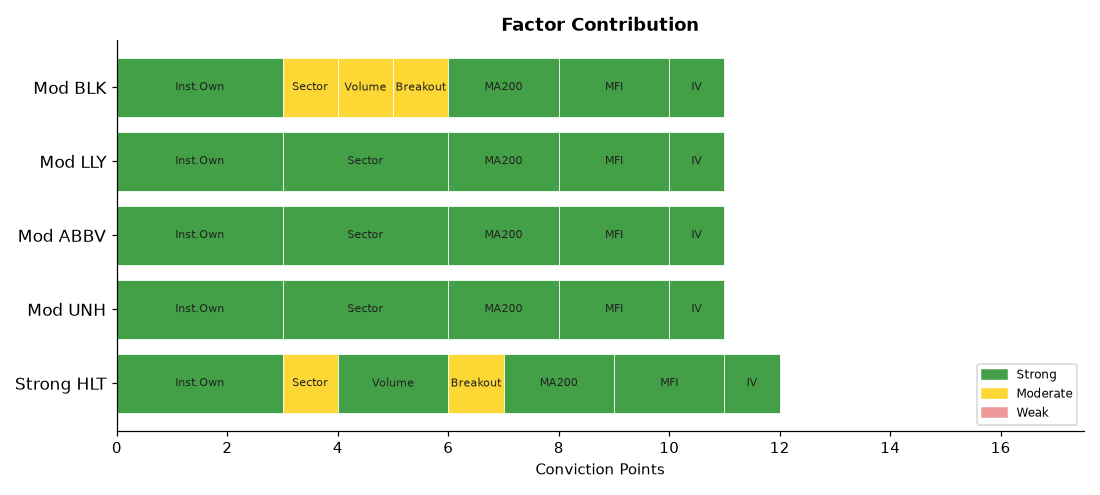
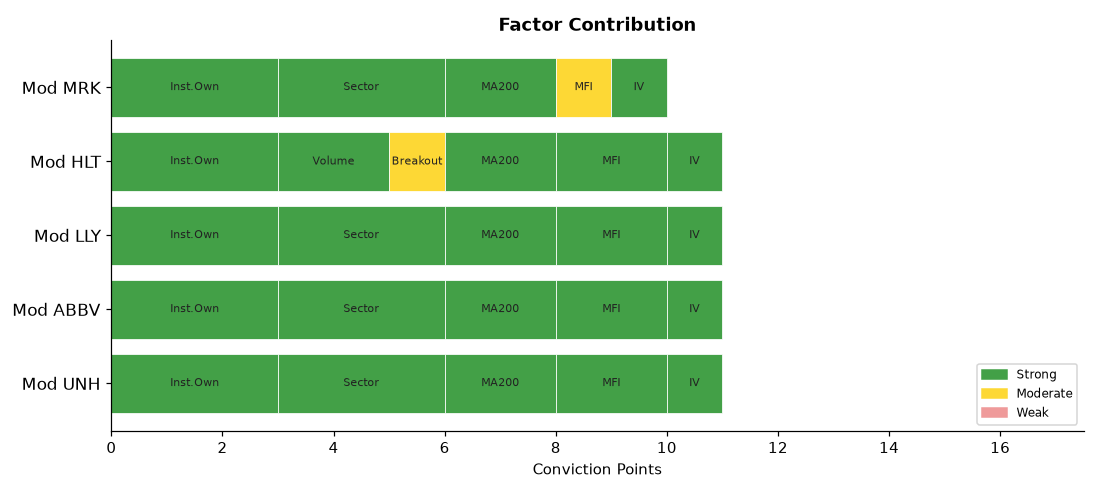
deploy: b7fadf5b06deb90e7ebb92f278722414bdd9750d

diff --git a/index.html b/index.html
@@ -4,7 +4,7 @@
   <meta charset="UTF-8">
   <meta name="viewport" content="width=device-width,initial-scale=1">
   <meta http-equiv="Cache-Control" content="no-cache,no-store,must-revalidate">
-  <title>Stock Breakout Screener — 2026-10-20 20:23</title>
+  <title>Stock Breakout Screener — 2026-10-20 22:00</title>
   <style>
     *{box-sizing:border-box;margin:0;padding:0}
     body{font-family:'Segoe UI',Arial,sans-serif;background:#f0f2f5;
@@ -34,20 +34,20 @@
 
 <div class="hdr">
   <h1>📈 Stock Breakout Screener</h1>
-  <p>Updated: 2026-10-20 20:23 UTC &nbsp;·&nbsp; Phase: After-Hours (4:00–8:00 PM ET) &nbsp;·&nbsp;
+  <p>Updated: 2026-10-20 22:00 UTC &nbsp;·&nbsp; Phase: After-Hours (4:00–8:00 PM ET) &nbsp;·&nbsp;
      129 stocks screened &nbsp;·&nbsp; Top 5 by conviction score</p>
 </div>
 
 <div class="card">
   <strong style="font-size:14px">Market Sentiment: 🐻 Bearish</strong>
   <div class="bar-wrap" style="margin-top:10px">
-    <div style="width:1%;background:#43a047"></div>
-    <div style="width:7%;background:#fdd835"></div>
+    <div style="width:0%;background:#43a047"></div>
+    <div style="width:8%;background:#fdd835"></div>
     <div style="width:92%;background:#e53935"></div>
   </div>
   <div style="font-size:12px;color:#555">
-    🟢 Strong 1% &nbsp;
-    🟡 Moderate 7% &nbsp;
+    🟢 Strong 0% &nbsp;
+    🟡 Moderate 8% &nbsp;
     🔴 Weak 92%
   </div>
 </div>
@@ -59,25 +59,8 @@
                     box-shadow:0 2px 6px rgba(0,0,0,.07)">
           <div style="display:flex;align-items:center;gap:10px;
                       flex-wrap:wrap;margin-bottom:10px">
-            <span style="font-size:22px">🟢</span>
-            <span style="font-size:19px;font-weight:700">1. HLT</span>
-            <span style="font-size:12px;color:#666">Consumer Disc</span>
-            <span style="margin-left:auto;background:#1a237e;color:#fff;
-                         padding:3px 12px;border-radius:12px;
-                         font-size:13px;font-weight:600">
-              12/17
-            </span>
-          </div>
-          <ul style="margin:0;padding-left:18px;font-size:13px;
-                     color:#333;line-height:1.8"><li style="margin:5px 0"><span style="background:#e8f5e9;color:#2e7d32;padding:2px 7px;border-radius:4px;font-size:11px;">✅</span> Volume: <b>2.0× average</b> — 🔥 Strong unusual activity</li><li style="margin:5px 0"><span style="background:#fffde7;color:#f57f17;padding:2px 7px;border-radius:4px;font-size:11px;">⚠</span> Candle: close <b>$359.29</b> vs open <b>$356.00</b> (+0.9%) — regular market close</li><li style="margin:5px 0"><span style="background:#e8f5e9;color:#2e7d32;padding:2px 7px;border-radius:4px;font-size:11px;">✅</span> 200-Day MA: price <b>$359.29</b> vs MA <b>$325.29</b> — <b>✅ Above</b> long-term trend</li><li style="margin:5px 0"><span style="background:#e8f5e9;color:#2e7d32;padding:2px 7px;border-radius:4px;font-size:11px;">✅</span> Inst. ownership: <b>96.8%</b> · MFI: <b>68.3</b> · Market cap: <b>$80.9B</b></li></ul>
-        </div>
-        <div style="background:#fff;border:1px solid #ddd;border-radius:10px;
-                    padding:16px 20px;margin-bottom:12px;
-                    box-shadow:0 2px 6px rgba(0,0,0,.07)">
-          <div style="display:flex;align-items:center;gap:10px;
-                      flex-wrap:wrap;margin-bottom:10px">
             <span style="font-size:22px">🟡</span>
-            <span style="font-size:19px;font-weight:700">2. UNH</span>
+            <span style="font-size:19px;font-weight:700">1. UNH</span>
             <span style="font-size:12px;color:#666">Healthcare</span>
             <span style="margin-left:auto;background:#1a237e;color:#fff;
                          padding:3px 12px;border-radius:12px;
@@ -94,7 +77,7 @@
           <div style="display:flex;align-items:center;gap:10px;
                       flex-wrap:wrap;margin-bottom:10px">
             <span style="font-size:22px">🟡</span>
-            <span style="font-size:19px;font-weight:700">3. ABBV</span>
+            <span style="font-size:19px;font-weight:700">2. ABBV</span>
             <span style="font-size:12px;color:#666">Healthcare</span>
             <span style="margin-left:auto;background:#1a237e;color:#fff;
                          padding:3px 12px;border-radius:12px;
@@ -103,7 +86,7 @@
             </span>
           </div>
           <ul style="margin:0;padding-left:18px;font-size:13px;
-                     color:#333;line-height:1.8"><li style="margin:5px 0"><span style="background:#ffebee;color:#b71c1c;padding:2px 7px;border-radius:4px;font-size:11px;">❌</span> Volume: <b>0.8× average</b> — Above-average activity</li><li style="margin:5px 0"><span style="background:#ffebee;color:#b71c1c;padding:2px 7px;border-radius:4px;font-size:11px;">❌</span> Candle: close <b>$289.08</b> vs open <b>$286.90</b> (+0.8%) — regular market close</li><li style="margin:5px 0"><span style="background:#e8f5e9;color:#2e7d32;padding:2px 7px;border-radius:4px;font-size:11px;">✅</span> 200-Day MA: price <b>$289.08</b> vs MA <b>$241.06</b> — <b>✅ Above</b> long-term trend</li><li style="margin:5px 0"><span style="background:#e8f5e9;color:#2e7d32;padding:2px 7px;border-radius:4px;font-size:11px;">✅</span> Inst. ownership: <b>77.3%</b> · MFI: <b>66.8</b> · Market cap: <b>$510.8B</b></li><li style="margin:5px 0"><span style="background:#ffebee;color:#b71c1c;padding:2px 7px;border-radius:4px;font-size:11px;">❌</span> Last similar breakout: <b>Jun 26, 2026</b> → <b>-2.1%</b> over 10 trading days</li></ul>
+                     color:#333;line-height:1.8"><li style="margin:5px 0"><span style="background:#ffebee;color:#b71c1c;padding:2px 7px;border-radius:4px;font-size:11px;">❌</span> Volume: <b>0.9× average</b> — Above-average activity</li><li style="margin:5px 0"><span style="background:#ffebee;color:#b71c1c;padding:2px 7px;border-radius:4px;font-size:11px;">❌</span> Candle: close <b>$289.08</b> vs open <b>$286.90</b> (+0.8%) — regular market close</li><li style="margin:5px 0"><span style="background:#e8f5e9;color:#2e7d32;padding:2px 7px;border-radius:4px;font-size:11px;">✅</span> 200-Day MA: price <b>$289.08</b> vs MA <b>$241.06</b> — <b>✅ Above</b> long-term trend</li><li style="margin:5px 0"><span style="background:#e8f5e9;color:#2e7d32;padding:2px 7px;border-radius:4px;font-size:11px;">✅</span> Inst. ownership: <b>77.3%</b> · MFI: <b>66.9</b> · Market cap: <b>$510.8B</b></li><li style="margin:5px 0"><span style="background:#ffebee;color:#b71c1c;padding:2px 7px;border-radius:4px;font-size:11px;">❌</span> Last similar breakout: <b>Jun 26, 2026</b> → <b>-2.1%</b> over 10 trading days</li></ul>
         </div>
         <div style="background:#fff;border:1px solid #ddd;border-radius:10px;
                     padding:16px 20px;margin-bottom:12px;
@@ -111,7 +94,7 @@
           <div style="display:flex;align-items:center;gap:10px;
                       flex-wrap:wrap;margin-bottom:10px">
             <span style="font-size:22px">🟡</span>
-            <span style="font-size:19px;font-weight:700">4. LLY</span>
+            <span style="font-size:19px;font-weight:700">3. LLY</span>
             <span style="font-size:12px;color:#666">Healthcare</span>
             <span style="margin-left:auto;background:#1a237e;color:#fff;
                          padding:3px 12px;border-radius:12px;
@@ -120,7 +103,7 @@
             </span>
           </div>
           <ul style="margin:0;padding-left:18px;font-size:13px;
-                     color:#333;line-height:1.8"><li style="margin:5px 0"><span style="background:#ffebee;color:#b71c1c;padding:2px 7px;border-radius:4px;font-size:11px;">❌</span> Volume: <b>1.0× average</b> — Above-average activity</li><li style="margin:5px 0"><span style="background:#ffebee;color:#b71c1c;padding:2px 7px;border-radius:4px;font-size:11px;">❌</span> Candle: close <b>$1283.66</b> vs open <b>$1263.50</b> (+1.6%) — regular market close</li><li style="margin:5px 0"><span style="background:#e8f5e9;color:#2e7d32;padding:2px 7px;border-radius:4px;font-size:11px;">✅</span> 200-Day MA: price <b>$1283.66</b> vs MA <b>$1128.58</b> — <b>✅ Above</b> long-term trend</li><li style="margin:5px 0"><span style="background:#e8f5e9;color:#2e7d32;padding:2px 7px;border-radius:4px;font-size:11px;">✅</span> Inst. ownership: <b>85.3%</b> · MFI: <b>66.5</b> · Market cap: <b>$1144.7B</b></li><li style="margin:5px 0"><span style="background:#ffebee;color:#b71c1c;padding:2px 7px;border-radius:4px;font-size:11px;">❌</span> Last similar breakout: <b>Jun 26, 2026</b> → <b>-2.2%</b> over 10 trading days</li></ul>
+                     color:#333;line-height:1.8"><li style="margin:5px 0"><span style="background:#ffebee;color:#b71c1c;padding:2px 7px;border-radius:4px;font-size:11px;">❌</span> Volume: <b>1.0× average</b> — Above-average activity</li><li style="margin:5px 0"><span style="background:#ffebee;color:#b71c1c;padding:2px 7px;border-radius:4px;font-size:11px;">❌</span> Candle: close <b>$1283.66</b> vs open <b>$1263.50</b> (+1.6%) — regular market close</li><li style="margin:5px 0"><span style="background:#e8f5e9;color:#2e7d32;padding:2px 7px;border-radius:4px;font-size:11px;">✅</span> 200-Day MA: price <b>$1283.66</b> vs MA <b>$1128.58</b> — <b>✅ Above</b> long-term trend</li><li style="margin:5px 0"><span style="background:#e8f5e9;color:#2e7d32;padding:2px 7px;border-radius:4px;font-size:11px;">✅</span> Inst. ownership: <b>85.3%</b> · MFI: <b>66.5</b> · Market cap: <b>$1144.2B</b></li><li style="margin:5px 0"><span style="background:#ffebee;color:#b71c1c;padding:2px 7px;border-radius:4px;font-size:11px;">❌</span> Last similar breakout: <b>Jun 26, 2026</b> → <b>-2.2%</b> over 10 trading days</li></ul>
         </div>
         <div style="background:#fff;border:1px solid #ddd;border-radius:10px;
                     padding:16px 20px;margin-bottom:12px;
@@ -128,8 +111,8 @@
           <div style="display:flex;align-items:center;gap:10px;
                       flex-wrap:wrap;margin-bottom:10px">
             <span style="font-size:22px">🟡</span>
-            <span style="font-size:19px;font-weight:700">5. BLK</span>
-            <span style="font-size:12px;color:#666">Financials</span>
+            <span style="font-size:19px;font-weight:700">4. HLT</span>
+            <span style="font-size:12px;color:#666">Consumer Disc</span>
             <span style="margin-left:auto;background:#1a237e;color:#fff;
                          padding:3px 12px;border-radius:12px;
                          font-size:13px;font-weight:600">
@@ -137,7 +120,24 @@
             </span>
           </div>
           <ul style="margin:0;padding-left:18px;font-size:13px;
-                     color:#333;line-height:1.8"><li style="margin:5px 0"><span style="background:#fffde7;color:#f57f17;padding:2px 7px;border-radius:4px;font-size:11px;">⚠</span> Volume: <b>1.8× average</b> — Above-average activity</li><li style="margin:5px 0"><span style="background:#fffde7;color:#f57f17;padding:2px 7px;border-radius:4px;font-size:11px;">⚠</span> Candle: close <b>$1128.68</b> vs open <b>$1138.89</b> (-0.9%) — regular market close</li><li style="margin:5px 0"><span style="background:#e8f5e9;color:#2e7d32;padding:2px 7px;border-radius:4px;font-size:11px;">✅</span> 200-Day MA: price <b>$1128.68</b> vs MA <b>$1066.36</b> — <b>✅ Above</b> long-term trend</li><li style="margin:5px 0"><span style="background:#e8f5e9;color:#2e7d32;padding:2px 7px;border-radius:4px;font-size:11px;">✅</span> Inst. ownership: <b>84.7%</b> · MFI: <b>73.1</b> · Market cap: <b>$183.4B</b></li></ul>
+                     color:#333;line-height:1.8"><li style="margin:5px 0"><span style="background:#e8f5e9;color:#2e7d32;padding:2px 7px;border-radius:4px;font-size:11px;">✅</span> Volume: <b>2.1× average</b> — 🔥 Strong unusual activity</li><li style="margin:5px 0"><span style="background:#fffde7;color:#f57f17;padding:2px 7px;border-radius:4px;font-size:11px;">⚠</span> Candle: close <b>$359.29</b> vs open <b>$356.00</b> (+0.9%) — regular market close</li><li style="margin:5px 0"><span style="background:#e8f5e9;color:#2e7d32;padding:2px 7px;border-radius:4px;font-size:11px;">✅</span> 200-Day MA: price <b>$359.29</b> vs MA <b>$325.29</b> — <b>✅ Above</b> long-term trend</li><li style="margin:5px 0"><span style="background:#e8f5e9;color:#2e7d32;padding:2px 7px;border-radius:4px;font-size:11px;">✅</span> Inst. ownership: <b>96.8%</b> · MFI: <b>68.4</b> · Market cap: <b>$80.9B</b></li></ul>
+        </div>
+        <div style="background:#fff;border:1px solid #ddd;border-radius:10px;
+                    padding:16px 20px;margin-bottom:12px;
+                    box-shadow:0 2px 6px rgba(0,0,0,.07)">
+          <div style="display:flex;align-items:center;gap:10px;
+                      flex-wrap:wrap;margin-bottom:10px">
+            <span style="font-size:22px">🟡</span>
+            <span style="font-size:19px;font-weight:700">5. MRK</span>
+            <span style="font-size:12px;color:#666">Healthcare</span>
+            <span style="margin-left:auto;background:#1a237e;color:#fff;
+                         padding:3px 12px;border-radius:12px;
+                         font-size:13px;font-weight:600">
+              10/17
+            </span>
+          </div>
+          <ul style="margin:0;padding-left:18px;font-size:13px;
+                     color:#333;line-height:1.8"><li style="margin:5px 0"><span style="background:#ffebee;color:#b71c1c;padding:2px 7px;border-radius:4px;font-size:11px;">❌</span> Volume: <b>1.0× average</b> — Above-average activity</li><li style="margin:5px 0"><span style="background:#ffebee;color:#b71c1c;padding:2px 7px;border-radius:4px;font-size:11px;">❌</span> Candle: close <b>$148.30</b> vs open <b>$146.29</b> (+1.4%) — regular market close</li><li style="margin:5px 0"><span style="background:#e8f5e9;color:#2e7d32;padding:2px 7px;border-radius:4px;font-size:11px;">✅</span> 200-Day MA: price <b>$148.30</b> vs MA <b>$129.56</b> — <b>✅ Above</b> long-term trend</li><li style="margin:5px 0"><span style="background:#e8f5e9;color:#2e7d32;padding:2px 7px;border-radius:4px;font-size:11px;">✅</span> Inst. ownership: <b>82.9%</b> · MFI: <b>50.3</b> · Market cap: <b>$365.9B</b></li><li style="margin:5px 0"><span style="background:#ffebee;color:#b71c1c;padding:2px 7px;border-radius:4px;font-size:11px;">❌</span> Last similar breakout: <b>Aug 19, 2026</b> → <b>-0.4%</b> over 10 trading days</li></ul>
         </div>
 
 
@@ -168,24 +168,6 @@
   
         <tr>
           <td style="font-weight:700;text-align:left;padding-left:10px">
-            🟢 HLT</td>
-          <td style="background:#c8e6c9">2.0×</td>
-          <td style="background:#fff9c4">+0.9%</td>
-          <td style="background:#c8e6c9">
-            ▲ Above</td>
-          <td style="background:#c8e6c9">
-            96.8%</td>
-          <td style="background:#c8e6c9">
-            68.3</td>
-          <td style="background:#fff9c4">Consumer Disc</td>
-          <td style="background:#c8e6c9">
-            114.8%</td>
-          <td style="background:#ffcdd2">
-            N/A</td>
-          <td style="font-weight:800;font-size:15px">12/17</td>
-        </tr>
-        <tr>
-          <td style="font-weight:700;text-align:left;padding-left:10px">
             🟡 UNH</td>
           <td style="background:#ffcdd2">1.1×</td>
           <td style="background:#ffcdd2">+2.2%</td>
@@ -205,17 +187,17 @@
         <tr>
           <td style="font-weight:700;text-align:left;padding-left:10px">
             🟡 ABBV</td>
-          <td style="background:#ffcdd2">0.8×</td>
+          <td style="background:#ffcdd2">0.9×</td>
           <td style="background:#ffcdd2">+0.8%</td>
           <td style="background:#c8e6c9">
             ▲ Above</td>
           <td style="background:#c8e6c9">
             77.3%</td>
           <td style="background:#c8e6c9">
-            66.8</td>
+            66.9</td>
           <td style="background:#c8e6c9">Healthcare</td>
           <td style="background:#c8e6c9">
-            96.9%</td>
+            97.0%</td>
           <td style="background:#ffcdd2">
             -2.1%</td>
           <td style="font-weight:800;font-size:15px">11/17</td>
@@ -240,21 +222,39 @@
         </tr>
         <tr>
           <td style="font-weight:700;text-align:left;padding-left:10px">
-            🟡 BLK</td>
-          <td style="background:#fff9c4">1.8×</td>
-          <td style="background:#fff9c4">-0.9%</td>
+            🟡 HLT</td>
+          <td style="background:#c8e6c9">2.1×</td>
+          <td style="background:#fff9c4">+0.9%</td>
           <td style="background:#c8e6c9">
             ▲ Above</td>
           <td style="background:#c8e6c9">
-            84.7%</td>
+            96.8%</td>
           <td style="background:#c8e6c9">
-            73.1</td>
-          <td style="background:#fff9c4">Financials</td>
+            68.4</td>
+          <td style="background:#ffcdd2">Consumer Disc</td>
           <td style="background:#c8e6c9">
-            51.0%</td>
+            114.8%</td>
           <td style="background:#ffcdd2">
             N/A</td>
           <td style="font-weight:800;font-size:15px">11/17</td>
+        </tr>
+        <tr>
+          <td style="font-weight:700;text-align:left;padding-left:10px">
+            🟡 MRK</td>
+          <td style="background:#ffcdd2">1.0×</td>
+          <td style="background:#ffcdd2">+1.4%</td>
+          <td style="background:#c8e6c9">
+            ▲ Above</td>
+          <td style="background:#c8e6c9">
+            82.9%</td>
+          <td style="background:#fff9c4">
+            50.3</td>
+          <td style="background:#c8e6c9">Healthcare</td>
+          <td style="background:#c8e6c9">
+            70.9%</td>
+          <td style="background:#ffcdd2">
+            -0.4%</td>
+          <td style="font-weight:800;font-size:15px">10/17</td>
         </tr>
 </table>
 </div>
@@ -278,57 +278,57 @@
         <tr>
           <td style="text-align:left;padding-left:10px;font-weight:600">
             #1 Healthcare</td>
-          <td style="background:#e8f5e9;color:#2e7d32;font-weight:700">+2.38%</td>
+          <td style="background:#e8f5e9;color:#2e7d32;font-weight:700">+2.37%</td>
         </tr>
         <tr>
           <td style="text-align:left;padding-left:10px;font-weight:600">
-            #2 Financials</td>
-          <td style="background:#e8f5e9;color:#2e7d32;font-weight:700">+1.20%</td>
+            #2 Real Estate</td>
+          <td style="background:#e8f5e9;color:#2e7d32;font-weight:700">+1.70%</td>
         </tr>
         <tr>
           <td style="text-align:left;padding-left:10px;font-weight:600">
-            #3 Consumer Disc</td>
-          <td style="background:#e8f5e9;color:#2e7d32;font-weight:700">+0.92%</td>
-        </tr>
-        <tr>
-          <td style="text-align:left;padding-left:10px;font-weight:600">
-            #4 Consumer Stpl</td>
-          <td style="background:#e8f5e9;color:#2e7d32;font-weight:700">+0.62%</td>
-        </tr>
-        <tr>
-          <td style="text-align:left;padding-left:10px;font-weight:600">
-            #5 Materials</td>
-          <td style="background:#e8f5e9;color:#2e7d32;font-weight:700">+0.55%</td>
-        </tr>
-        <tr>
-          <td style="text-align:left;padding-left:10px;font-weight:600">
-            #6 Industrials</td>
-          <td style="background:#e8f5e9;color:#2e7d32;font-weight:700">+0.07%</td>
-        </tr>
-        <tr>
-          <td style="text-align:left;padding-left:10px;font-weight:600">
-            #7 Real Estate</td>
-          <td style="background:#ffebee;color:#c62828;font-weight:700">+nan%</td>
-        </tr>
-        <tr>
-          <td style="text-align:left;padding-left:10px;font-weight:600">
-            #8 Utilities</td>
+            #3 Utilities</td>
           <td style="background:#e8f5e9;color:#2e7d32;font-weight:700">+1.26%</td>
         </tr>
         <tr>
           <td style="text-align:left;padding-left:10px;font-weight:600">
-            #9 Energy</td>
+            #4 Financials</td>
+          <td style="background:#e8f5e9;color:#2e7d32;font-weight:700">+1.20%</td>
+        </tr>
+        <tr>
+          <td style="text-align:left;padding-left:10px;font-weight:600">
+            #5 Consumer Disc</td>
+          <td style="background:#e8f5e9;color:#2e7d32;font-weight:700">+0.91%</td>
+        </tr>
+        <tr>
+          <td style="text-align:left;padding-left:10px;font-weight:600">
+            #6 Consumer Stpl</td>
+          <td style="background:#e8f5e9;color:#2e7d32;font-weight:700">+0.62%</td>
+        </tr>
+        <tr>
+          <td style="text-align:left;padding-left:10px;font-weight:600">
+            #7 Materials</td>
+          <td style="background:#e8f5e9;color:#2e7d32;font-weight:700">+0.55%</td>
+        </tr>
+        <tr>
+          <td style="text-align:left;padding-left:10px;font-weight:600">
+            #8 Energy</td>
           <td style="background:#e8f5e9;color:#2e7d32;font-weight:700">+0.25%</td>
         </tr>
         <tr>
           <td style="text-align:left;padding-left:10px;font-weight:600">
-            #10 Comm. Services</td>
+            #9 Comm. Services</td>
           <td style="background:#e8f5e9;color:#2e7d32;font-weight:700">+0.09%</td>
         </tr>
         <tr>
           <td style="text-align:left;padding-left:10px;font-weight:600">
+            #10 Industrials</td>
+          <td style="background:#e8f5e9;color:#2e7d32;font-weight:700">+0.07%</td>
+        </tr>
+        <tr>
+          <td style="text-align:left;padding-left:10px;font-weight:600">
             #11 Technology</td>
-          <td style="background:#ffebee;color:#c62828;font-weight:700">-0.27%</td>
+          <td style="background:#ffebee;color:#c62828;font-weight:700">-0.28%</td>
         </tr>
     </table>
   </div>
@@ -367,7 +367,7 @@
         <li><b>Scoring weights:</b>
             Inst.Own(3) · Sector(3) · Volume(2) · Breakout(2) ·
             MA200(2) · MFI(2) · History(2) · IV(1) = 17pts max</li>
-        <li><b>Run time:</b> 2026-10-20 20:23 UTC — Market phase: After-Hours (4:00–8:00 PM ET)</li>
+        <li><b>Run time:</b> 2026-10-20 22:00 UTC — Market phase: After-Hours (4:00–8:00 PM ET)</li>
       </ul>
     </div>
 
